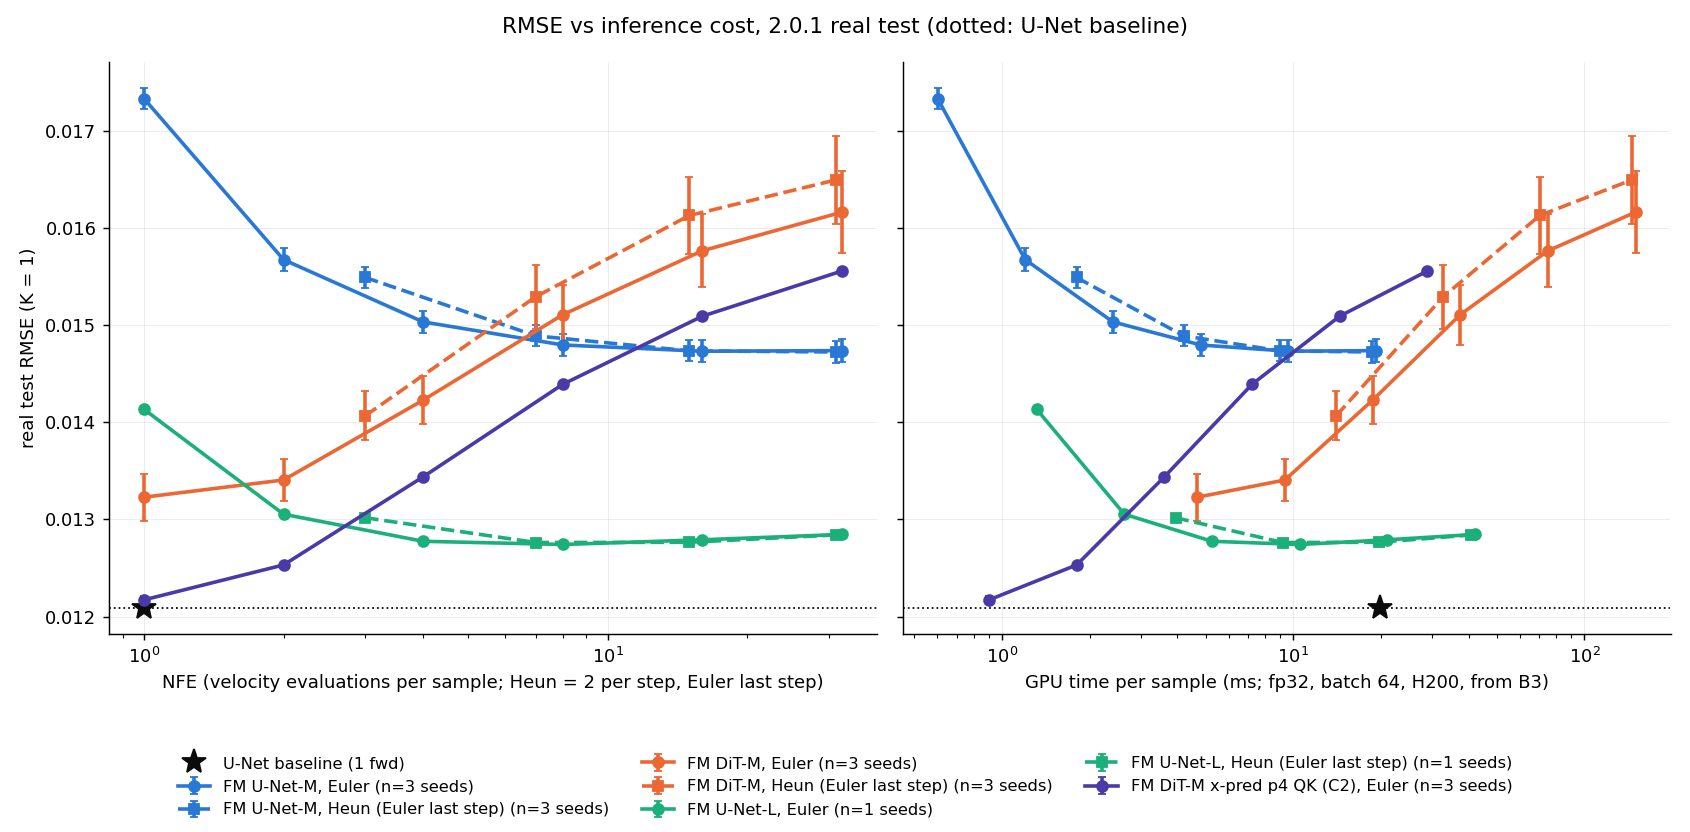
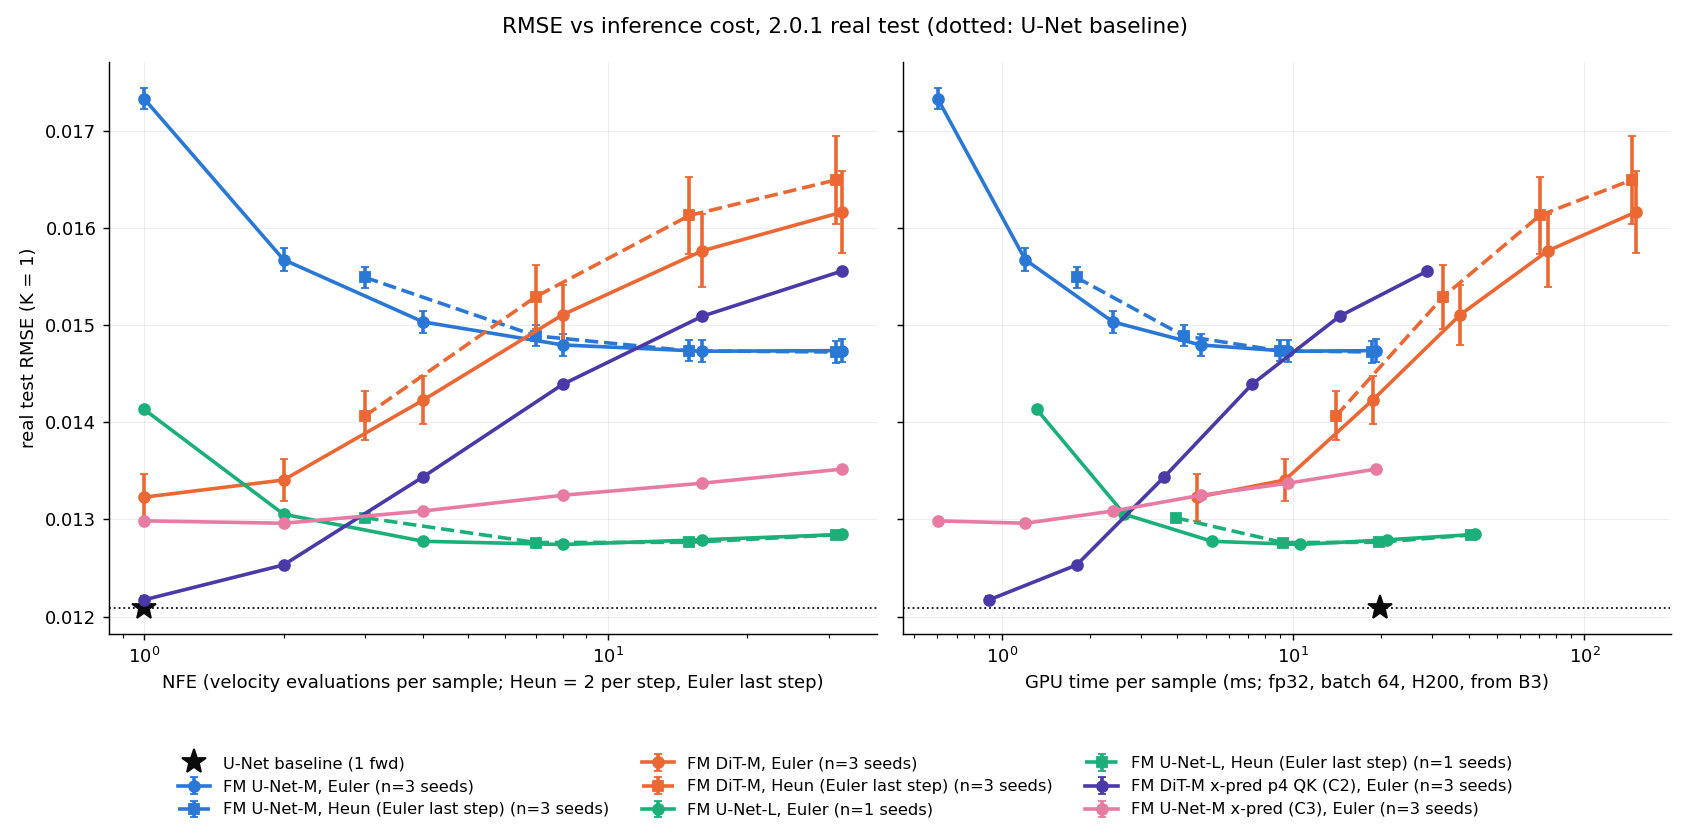
C2/C3 results: report sections, test summary, Pareto with U-Net x-pred, D-042

diff --git a/scripts/c_stability.py b/scripts/c_stability.py
@@ -202,7 +202,7 @@ def c2_runs(cfg):
 def cmd_c2():
     # success reference: mean over seeds 0-2 of the current setting's best (pre-divergence) val RMSE
     pre_best = float(np.mean([min(r["val"]["rmse"] for r in load(d)[1]) for d in c2_runs("base")[:3]]))
-    fig, ax = plt.subplots(2, 4, figsize=(18, 7.5), sharex=True)
+    fig, ax = plt.subplots(2, 4, figsize=(18, 8), sharex=True, sharey="row")
     rows = []
     for j, (cfg, label) in enumerate(C2_CFG):
         for i, d in enumerate(c2_runs(cfg)):
@@ -228,10 +228,12 @@ def cmd_c2():
         ax[0, j].legend(fontsize=7, frameon=False)
         ax[1, j].set_xlabel("step")
         style(ax[0, j]); style(ax[1, j])
-    ax[0, 0].set_ylabel("val RMSE (subset, N=10); dashed = mean best pre-divergence val, current setting s0-2")
-    ax[1, 0].set_ylabel("max attention logit over blocks\n(logged every 250 steps; new runs only)")
+    ax[0, 0].set_ylabel("val RMSE (subset, N=10)")
+    ax[1, 0].set_ylabel("max attention logit over blocks")
+    fig.text(0.5, 0.01, "dashed: mean best pre-divergence val of the current setting (seeds 0-2); "
+             "logits logged every 250 steps, new runs only", ha="center", fontsize=9, color=MUTED)
     fig.suptitle("C2 screening: DiT-M, real, 50k steps")
-    fig.tight_layout(); fig.savefig(f"{OUT}/c2_screen.png", dpi=120)
+    fig.tight_layout(rect=(0, 0.03, 1, 1)); fig.savefig(f"{OUT}/c2_screen.png", dpi=120)
     json.dump({"pre_best_current": pre_best, "rows": rows}, open(f"{OUT}/c2_table.json", "w"), indent=1)
     with open(f"{OUT}/c2_table.md", "w") as f:
         f.write(f"Reference: mean over seeds 0-2 of the current setting's best (pre-divergence) val = {pre_best:.5f}\n\n")
@@ -243,6 +245,36 @@ def cmd_c2():
     print(open(f"{OUT}/c2_table.md").read())
 
 
+def cmd_c2test():
+    """Test RMSE (2.0.1 real test, EMA, last = best checkpoint) per C2/C3 config, mean +- std over seeds,
+    next to the phase-6 numbers of the current DiT-M and U-Net-M (pre-divergence / best checkpoints)."""
+    groups = [("DiT-M current (phase 6, pre-divergence ckpt)", f"{R}/phase6_test", ["dit_M_real_s0b", "dit_M_real_s1", "dit_M_real_s2"]),
+              ("DiT-M + QK-norm", f"{R}/c2_test", ["qk_s0", "qk_s1", "qk_s2"]),
+              ("DiT-M + QK-norm + beta2 0.95", f"{R}/c2_test", ["qk_b95_s0", "qk_b95_s1", "qk_b95_s2"]),
+              ("DiT-M x-pred p4 + QK-norm", f"{R}/c2_test", ["xp4_qk_s0", "xp4_qk_s1", "xp4_qk_s2"]),
+              ("U-Net-M v-pred (phase 6)", f"{R}/phase6_test", ["unet_M_real_s0b", "unet_M_real_s1", "unet_M_real_s2"]),
+              ("U-Net-M x-pred (C3)", f"{R}/c2_test", ["unet_xp_s0", "unet_xp_s1", "unet_xp_s2"])]
+    nfe1 = f"{R}/b4_pareto"
+    rows = []
+    for label, d, runs in groups:
+        r = {"group": label}
+        for tag in ("N20_K1", "N20_K5"):
+            v = [json.load(open(f"{d}/{x}_{tag}.json"))["metrics"] for x in runs if os.path.exists(f"{d}/{x}_{tag}.json")]
+            r[tag] = (np.mean([m["rmse"] for m in v]), np.std([m["rmse"] for m in v], ddof=1), len(v)) if len(v) > 1 else None
+            r[tag + "_fe"] = np.mean([m["freq_error"] for m in v]) if v else None
+        v = [json.load(open(f))["metrics"]["rmse"] for x in runs for f in (f"{nfe1}/{x}_N1_K1.json", f"{R}/c2_test/{x}_N1_K1.json") if os.path.exists(f)]
+        r["N1_K1"] = (np.mean(v), np.std(v, ddof=1), len(v)) if len(v) > 1 else None
+        rows.append(r)
+    fmt = lambda t: f"{t[0]:.5f} ± {t[1]:.5f} (n={t[2]})" if t else "–"
+    with open(f"{OUT}/c2_test.md", "w") as f:
+        f.write("| config | test RMSE N=20 K=1 | N=20 K=5 | Euler NFE 1 | FE (N=20 K=1) |\n|---|---|---|---|---|\n")
+        for r in rows:
+            f.write(f"| {r['group']} | {fmt(r['N20_K1'])} | {fmt(r['N20_K5'])} | {fmt(r['N1_K1'])} | "
+                    f"{('%.1f' % r['N20_K1_fe']) if r['N20_K1_fe'] else '–'} |\n")
+        f.write("\nU-Net baseline (deterministic, Phase 4): 0.01209 ± 0.00004, FE 33.1\n")
+    print(open(f"{OUT}/c2_test.md").read())
+
+
 if __name__ == "__main__":
     os.makedirs(OUT, exist_ok=True)
-    {"align": cmd_align, "diag": cmd_diag, "c1": cmd_c1, "c2": cmd_c2}[sys.argv[1]]()
+    {"align": cmd_align, "diag": cmd_diag, "c1": cmd_c1, "c2": cmd_c2, "c2test": cmd_c2test}[sys.argv[1]]()

diff --git a/scripts/cost_summary.py b/scripts/cost_summary.py
@@ -16,9 +16,11 @@ BENCH = f"{R}/fm/b3_bench/bench.json"
 B4 = f"{R}/fm/b4_pareto"
 # U-Net baseline real test RMSE (Phase 4, 3 seeds) -- docs/REPORT_phase0-4 Section 5.2
 UNET_BASELINE_RMSE = (0.01209, 0.00004)
-COLORS = {"FM U-Net-M": "#2a78d6", "FM DiT-M": "#eb6834", "FM U-Net-L": "#1baf7a", "FM DiT-M x-pred p4 QK (C2)": "#4a3aa7"}
+COLORS = {"FM U-Net-M": "#2a78d6", "FM DiT-M": "#eb6834", "FM U-Net-L": "#1baf7a", "FM DiT-M x-pred p4 QK (C2)": "#4a3aa7",
+          "FM U-Net-M x-pred (C3)": "#e87ba4"}
 FAMILIES = list(COLORS)
-FAMILY_OF = {"unet_M": "FM U-Net-M", "dit_M": "FM DiT-M", "unet_L": "FM U-Net-L", "xp4_qk": "FM DiT-M x-pred p4 QK (C2)"}
+FAMILY_OF = {"unet_M": "FM U-Net-M", "dit_M": "FM DiT-M", "unet_L": "FM U-Net-L", "xp4_qk": "FM DiT-M x-pred p4 QK (C2)",
+             "unet_xp": "FM U-Net-M x-pred (C3)"}
 INK, MUTED = "#0b0b0b", "#8a8984"
 
 ROWS = [  # label, bench key, as-run rows (method, setting) from asrun.csv
@@ -86,7 +88,8 @@ def cmd_pareto():
     lat = {"FM U-Net-M": b["fm_unet_M"]["infer_fp32_b64"]["median_s"] / 64,
            "FM DiT-M": b["fm_dit_M"]["infer_fp32_b64"]["median_s"] / 64,
            "FM U-Net-L": b["fm_unet_L"]["infer_fp32_b64"]["median_s"] / 64,
-           "FM DiT-M x-pred p4 QK (C2)": b["fm_dit_M_xp4_qk"]["infer_fp32_b64"]["median_s"] / 64}
+           "FM DiT-M x-pred p4 QK (C2)": b["fm_dit_M_xp4_qk"]["infer_fp32_b64"]["median_s"] / 64,
+           "FM U-Net-M x-pred (C3)": b["fm_unet_M"]["infer_fp32_b64"]["median_s"] / 64}  # same network as U-Net-M
     base_t = b["official_unet"]["infer_fp32_b64"]["median_s"] / 64 if "median_s" in b["official_unet"].get("infer_fp32_b64", {}) else None
     rows = []
     for f in glob.glob(f"{B4}/*.json"):

diff --git a/docs/reports/todo_1012_week2.md b/docs/reports/todo_1012_week2.md
@@ -10,7 +10,9 @@
 1. **Transolver 的回升（A）**：6 個 run 裡只有 real s2 有實質回升（1800→2000 步，val +29%）。同一段 train loss 也上升 43% 並出現 spike，判定為**最佳化不穩**（lr 7e-4、沒有 warmup、沒有 clipping）。其餘 5 個 run 只是 ≤4.5% 的單點跳動。所有 run 的最佳點都在第 5000 步，不影響報告數字。A2 不需要做（D-032）。
 2. **成本（B）**：清單原本的前提「U-Net baseline 的 wall-clock 主要花在資料載入」**不成立**。官方 U-Net 是 3D U-Net，**每個樣本 forward 約 1.1 TFLOPs**，用合成 tensor 量到的 step time（0.687 s）和 as-run 的 0.688 s/iter 一樣。FM U-Net-M 每次 NFE 是 54 GFLOPs，所以 **NFE 20 的總計算量大約等於 baseline 的一次 forward**。推論時間：FM U-Net-M 在 NFE 20 約 12 ms/樣本，baseline 約 20 ms/樣本（fp32、batch 64）。
 3. **DiT 的「回升後降不回去」（C）其實是訓練發散**，只發生在 real 設定（DiT-M 3/3 個 seed，發散起點 27.0k–27.4k 步）。機制是 **attention logit 增長（H1）**：第 0 層的 attention logit 先暴增到 10⁵–10⁸，entropy 降到 0（one-hot attention），之後 grad norm 才爆炸，然後其他層跟著崩潰。U-Net FM 沒有這個現象。
-4. **從發散前的 checkpoint 續訓（C1）**：在 26k 步時狀態已經接近臨界，相同設定、β2 0.95、lr 減半都在 750–1200 步內發散；20k 步的 checkpoint 用相同設定續訓到 26k 步沒有發散，但第 0 層的 entropy 已經降到 0。也就是說，**事後調 optimizer 無效，要從架構上限制 logit**。
+4. **C2 篩選**：現行設定 **6/6 個 seed 發散**（27.0k–29.3k 步）；加上 QK-norm 的三個設定都是 **0/3 發散**，最終 val 都優於現行設定發散前的最佳值。x-pred + patch 4 + QK-norm 最好（test RMSE N20 K1 0.01525 ± 0.00003，原本 0.01592 ± 0.00039），而且訓練快 3 倍。
+5. **C3**：x-pred 對 U-Net 也有效（test RMSE N20 K1 0.01473 → **0.01340**，FE 48.7 → 30.0，優於 baseline 的 33.1），所以 x-pred 的改善主要來自參數化方式，不是 backbone。
+6. **從發散前的 checkpoint 續訓（C1）**：在 26k 步時狀態已經接近臨界，相同設定、β2 0.95、lr 減半都在 750–1200 步內發散；20k 步的 checkpoint 用相同設定續訓到 26k 步沒有發散，但第 0 層的 entropy 已經降到 0。也就是說，**事後調 optimizer 無效，要從架構上限制 logit**。
 
 ---
 
@@ -99,11 +101,12 @@ baseline 的時間來自 TensorBoard `train_loss` 逐步的 `wall_time`；FM 的
 | FM U-Net-L（seed 0） | 0.01414 | 0.01305 | 0.01278 | 0.01274 | 0.01279 | 0.01285 | 0.01274（8，+5.4%） | 10.5 ms |
 | FM DiT-M（v-pred，3 seeds，發散前的 ckpt） | **0.01323** | 0.01341 | 0.01423 | 0.01511 | 0.01577 | 0.01617 | 0.01323（1） | 4.7 ms |
 | FM DiT-M x-pred patch 4 + QK-norm（C2，3 seeds） | **0.01217** | 0.01253 | 0.01344 | 0.01439 | 0.01509 | 0.01556 | **0.01217（1，+0.7%）** | **0.9 ms** |
+| FM U-Net-M x-pred（C3，3 seeds） | 0.01299 | 0.01296 | 0.01309 | 0.01325 | 0.01337 | 0.01352 | 0.01296（2，+7.2%） | 1.2 ms |
 
 Heun（Euler 最後一步），NFE 3 / 7 / 15 / 31：U-Net-M 0.01549 / 0.01489 / 0.01474 / 0.01473；U-Net-L 0.01302 / 0.01276 / 0.01276 / 0.01284；DiT-M 0.01407 / 0.01530 / 0.01613 / 0.01650。**在相同 NFE 下，Heun 沒有比 Euler 好。**
 
 **重點**
-- **U-Net 和 DiT 的趨勢相反**：U-Net 的 RMSE 隨 NFE 下降，NFE 8 之後持平；DiT 的 RMSE 隨 NFE **上升**，NFE 1 最好。
+- **v-pred U-Net 和其他模型的趨勢相反**：v-pred U-Net 的 RMSE 隨 NFE 下降，NFE 8 之後持平；DiT（v-pred、x-pred）和 x-pred U-Net 的 RMSE 隨 NFE **上升**或持平，NFE 1–2 最好。
 - **NFE 1 的 Euler 等於條件均值的估計**：一步 Euler 是 y = y0 + v(y0, 0, c)，而 t = 0 時最佳的 v 是 E[y1 | c] − y0，所以輸出就是 E[y1 | c]，和噪聲無關，是一個確定性的回歸預測。DiT 在 NFE 1 最好，表示它學到的條件均值不錯，但積分越多步，樣本的變異和誤差越大（RMSE 偏好平滑的條件均值，見 Phase 6 觀察 6）。U-Net 在 t = 0 的預測反而差（0.0173），要積分幾步才變好。
 - **x-pred DiT 在 NFE 1 時 RMSE 0.01217，和 U-Net baseline（0.01209）只差 0.7%，每個樣本只要 0.9 ms**，baseline 要 19.6 ms。不過這是「當成回歸模型用」的結果，不代表生成的樣本品質；這正好是 D 節「同骨架確定性回歸對照組」要回答的問題。
 - 對主表的影響：主表用 N = 20，對 DiT 不利（v-pred DiT-M 在 NFE 1 是 0.0132，N = 20 是 0.0159）。**FM 的 RMSE 要和 NFE 一起報告**，不能只報一個 N。
@@ -216,3 +219,69 @@ U-Net-M（3 種設定 × 3 seeds）、U-Net-L、U-Net-Sv2 都沒有發散：grad
 - **C0.5**：**logit 增長和 t 有關，越接近資料端（t → 1）越大**（s1 raw：t=0.1 時 28，t=0.9 時 12045）。q/k 投影權重的 norm 只溫和增加（19 → 23–29），所以增長主要來自輸入 token 的對齊或放大，而不是 q/k 權重本身變大。adaLN 的 modulation 幅度在發散前正常（0.6–0.9），**發散後才暴增**（25–80，DiT-S 到 215），是結果不是原因。DiT-L 在第 16000 步（best.pt）各個 t 的 entropy 都已經是 0，val 卻還是最好的，所以 **entropy collapse 是前兆，不會立刻傷害預測**，但之後一定會發散。
 - **C0.6**：發散前，DiT 的 Euler N=50 比 N=10 差 6–7%（U-Net-M real 不變；見 B4：DiT 的 RMSE 隨 N 增加而上升），發散後三種 sampler 沒有差別，所以換 sampler 救不了（H2 排除）。注意：表中的 Heun10 是最後一步在 t = 1 評估的舊版 Heun，有偏差（D-039），只能當參考；判讀只依據 Euler N=50。
 - **P2（numerical 的 val 慢慢變差）**：DiT 和 U-Net 都是 train FM loss 下降、val FM loss 上升（DiT-M t=0.3：0.103 → 0.182；train 0.079 → 0.040），attention 正常。這是對模擬資料的過擬合或 sim→real 的落差，和 P1 無關，也不是 DiT 特有的。
+
+### C2 篩選實驗（D-034、D-035）
+
+DiT-M、real、50k 步 cosine、每個設定 3 個 seed（現行設定 6 個：phase 6 的 s0b/s1/s2 加上新的 s3/s4/s5）。job 531148、531149。參考值 = 現行設定 seed 0–2 發散前最佳 val 的平均 = **0.01533**。
+
+![C2 screening](../figures/1012/c2_screen.png)
+
+| 設定 | 發散 | 發散步數 | 最終 val（3 seeds） | 最佳點 | 訓練 ms/step（B3） | 通過？ |
+|---|---|---|---|---|---|---|
+| 1. 現行（v-pred、patch 2） | **6/6** | 27000 / 27050 / 27400 / 27300 / 28550 / 29250 | 0.130–0.143（崩潰） | 20k–28k | 178 | 否 |
+| 2. + QK-norm | 0/3 | – | 0.01482 / 0.01490 / 0.01496 | 50k（最後一步） | 242 | **是** |
+| 3. + QK-norm + β2 0.95 | 0/3 | – | 0.01473 / 0.01474 / 0.01475 | 46k–50k | 242 | **是** |
+| 4. x-pred + patch 4 + QK-norm | 0/3 | – | **0.01465 / 0.01462 / 0.01467** | 50k（最後一步） | **60** | **是（最好）** |
+
+- QK-norm 的三個設定，各層的 max attention logit 整個訓練過程都在 7–25 之間；現行設定到 27k 步前後升到 10⁴–10¹⁰。
+- 三個設定都通過成功標準（0/3 發散，最終 val 優於 0.01533），而且到第 50k 步都還在進步。
+
+**test 結果**（2.0.1 real test，EMA，最後一個 checkpoint；`scripts/c_stability.py c2test` → `$F/c_stability/c2_test.md`；job 531322、531679）
+
+| 設定 | N=20 K=1 | N=20 K=5 | Euler NFE 1 | FE（N20 K1） |
+|---|---|---|---|---|
+| DiT-M 現行（phase 6，發散前的 ckpt） | 0.01592 ± 0.00039 | 0.01331 ± 0.00024 | 0.01323 ± 0.00024 | 45.4 |
+| DiT-M + QK-norm | 0.01560 ± 0.00006 | 0.01281 ± 0.00005 | 0.01253 ± 0.00005 | 38.3 |
+| DiT-M + QK-norm + β2 0.95 | 0.01543 ± 0.00001 | 0.01267 ± 0.00002 | 0.01237 ± 0.00006 | 37.5 |
+| **DiT-M x-pred patch 4 + QK-norm** | **0.01525 ± 0.00003** | **0.01247 ± 0.00002** | **0.01217 ± 0.00004** | **32.8** |
+| U-Net-M v-pred（phase 6） | 0.01473 ± 0.00012 | 0.01350 ± 0.00004 | 0.01734 ± 0.00011 | 48.7 |
+| **U-Net-M x-pred（C3）** | **0.01340 ± 0.00000** | 0.01290 ± 0.00000 | 0.01299 ± 0.00002 | **30.0** |
+| U-Net baseline（確定性，Phase 4） | 0.01209 ± 0.00004 | – | – | 33.1 |
+
+（U-Net x-pred 三個 seed 的 K=1 是 0.013409 / 0.013401 / 0.013404，std 約 4e-6，不是寫錯。）
+
+**選定的設定：x-pred + patch 4 + QK-norm**（D-042）。val 和 test 都最好，seed 之間的變異最小（std 從 0.00039 降到 0.00003），訓練每步快 3 倍（patch 4 的 token 數只有 1/4），推論也快約 5 倍。D-019 擔心的「patch 4 時 y_t 傳不過去」在 x-pred 下不成立，因為模型預測的是乾淨的場，不需要把逐像素的噪聲傳到輸出。
+
+### C3 U-Net x-pred 對照（D-040）
+
+U-Net-M 只把 v-pred 換成 x-pred（`t_floor` 0.05），其他完全相同。3 seeds，50k 步，0/3 發散（clip 之前的 grad norm 最大 4–5）。val 在第 30k 步最好（0.01328），之後微幅變差到 0.01341，所以 best.pt 在 30k 步。
+
+- **x-pred 對 U-Net 的幫助比對 DiT 還大**：N20 K1 0.01473 → 0.01340（−9.0%），K5 0.01350 → 0.01290（−4.4%），NFE 1 0.01734 → 0.01299（−25%）。FE 從 48.7 降到 30.0，**比確定性 baseline（33.1）還好**。
+- DiT 的對照（同樣有 QK-norm）：v-pred patch 2 → x-pred patch 4，N20 K1 從 0.01560 降到 0.01525（−2.2%）。
+- **結論：C2 選到的改善主要來自 x-pred 這個參數化方式，不是 DiT backbone。** 換成 x-pred 之後，U-Net-M 仍然比 DiT-M 好（0.01340 vs 0.01525）。和確定性 U-Net baseline 相比，FM U-Net-M x-pred 在 K=1 還差 11%，在 K=5 還差 7%，但頻譜指標 FE 已經比 baseline 好。
+
+### C4 長訓練
+
+延到下個週期（D-041）。用的設定：x-pred + patch 4 + QK-norm（DiT），並且應該讓 U-Net x-pred 也一起跑。U-Net x-pred 在 30k 步之後 val 微幅變差，所以 WSD 的衰減段長度要調。
+
+### 對報告的影響
+
+- Phase 6 主表的 DiT-M 數字（real、finetune）來自發散前的 checkpoint（提早停止）。新設定下 DiT 不再發散，正式比較應該改用 C2 選出的設定重訓所有條件（numerical、real、finetune）和大小。
+- x-pred 對 U-Net 也有效，Phase 6 的 FM U-Net 結果應該補上 x-pred 版本。
+- FM 的 RMSE 要連同 NFE 一起報告（B4）。
+
+---
+
+## 產出總覽
+
+| 項目 | 路徑 |
+|---|---|
+| A1 | `$R/v2.0.1/transolver_rebound/`；`scripts/transolver_rebound.py` |
+| B1 | `$R/cost/asrun.{csv,md}`；`scripts/cost_asrun.py` |
+| B2/B3 | `$F/b3_bench/bench.json`、`$R/cost/cost_table.md`；`scripts/bench_cost.py`、`scripts/cost_summary.py table` |
+| B4 | `$F/b4_pareto/*.json`、`$R/cost/pareto.{png,csv}`；`scripts/eval_fm.py`、`scripts/cost_summary.py pareto` |
+| C0 | `$F/c0_diag/*.json`、`$F/c_stability/{divergence_table,c0_diag_table}.md`；`fm/tests/diag_stability.py`、`scripts/c_stability.py align/diag` |
+| C1 | `$F/c1_resume/*/`、`$F/c_stability/c1_resume.png`；`scripts/c_stability.py c1` |
+| C2/C3 | `$F/c2/*/`（訓練）、`$F/c2_test/*.json`（test）、`$F/c_stability/{c2_screen.png, c2_table.md, c2_test.md}`；`fm/configs/cylinder/c2/` |
+| 程式改動 | `fm/backbones/dit.py`（`qk_norm`）、`fm/build.py`（`pred: x`）、`fm/paths.py`（Heun）、`fm/train_fm.py`（`--resume`、`--stop-at`、`--beta2`、`--attn-every`、clip 比例）、`fm/diag.py`、`slurm/pack.sh` |
+| 每個 job 的指令清單 | `jobs/lists/*.txt`（每行的輸出 log 在同目錄的 `*.txt.<i>.log`，不進 git） |

diff --git a/docs/DECISIONS.md b/docs/DECISIONS.md
@@ -46,3 +46,4 @@
 | D-039 | 10-12 | todo_1012 B4 / C0.6 | **Heun 改成最後一步用 Euler（`heun_e`，NFE = 2N − 1），重跑 B4 的 Heun**（job 531317）。原本的 Heun（D-038）在最後一步會在 t = 1 評估速度場；rectified flow 在 t = 1 時 y_t = y1，目標 y1 − y0 裡的 y0 無法辨識，最佳的 v 約等於 y1 本身，所以最後的修正有偏差。小 NFE 時特別明顯（U-Net-M：Heun 1 步 0.098、2 步 0.039，Euler 2 步 0.016）。舊結果保留（`*_heun{N}_K1.json`），只放在 CSV，不畫進 Pareto 圖。C0.6 的 `heun10` 也是舊版 Heun，所以 C0.6 只用 Euler N=50 判讀；結論（發散後三種 sampler 一樣差）不受影響 | EDM（Karras 2022）的 Heun 也是最後一步不做修正；這是實作上的疏失，不是 Heun 本身的問題 |
 | D-040 | 10-12 | todo_1012 C3 | **做 C3**：C2 的 x-pred + patch 4 + QK-norm 在 10-12 晚上第一個跑完，0/3 發散，最終 val 0.01462–0.01467，優於現行設定發散前最佳值的 3 seeds 平均 0.01533，已經符合成功標準，所以照清單觸發 C3。設定：U-Net-M 只改成 x-pred（`t_floor` 0.05，其他和 `unet_M.yaml` 相同，U-Net 沒有 patch 和 attention 可改），real、50k 步、seed 0–2（`fm/configs/cylinder/c2/unet_M_xp.yaml`，job 531322）。同一個 job 也對 x-pred DiT 的 3 個 seed 做 test 評估（N20 K1/K5）和 B4 的 Euler NFE 掃描 | x-pred DiT 的 val 已經和 U-Net-M v-pred 相當，必須分開「x-pred 本身的效果」和「backbone 的效果」；U-Net-M 一個 run 約 1.7 GPU-h，成本低 |
 | D-041 | 10-12 | todo_1012 C4 | **C4（WSD 長訓練）延到下個週期**，照清單的預設 | C2 還沒全部跑完，C4 要用 C2 選出的設定；本週的 GPU 預算以 C2、C3 為主 |
+| D-042 | 10-12 | todo_1012 C2 | **C2 選定 x-pred + patch 4 + QK-norm**（設定 4）。三個 QK-norm 設定都通過成功標準（0/3 發散，最終 val 優於 0.01533）；設定 4 的 val（0.01465）和 test（N20 K1 0.01525 ± 0.00003）都最好，訓練每步 60 ms（設定 2、3 是 242 ms）。C3 顯示 x-pred 對 U-Net 也有效（N20 K1 0.01473 → 0.01340），所以下個週期的長訓練（C4）和正式比較應該兩個 backbone 都用 x-pred | 三者都穩定時，以 val 和成本決定；x-pred 的效果和 backbone 無關，所以不能只換 DiT |
